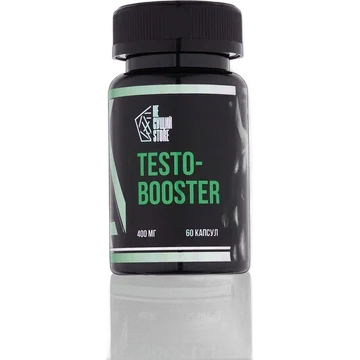
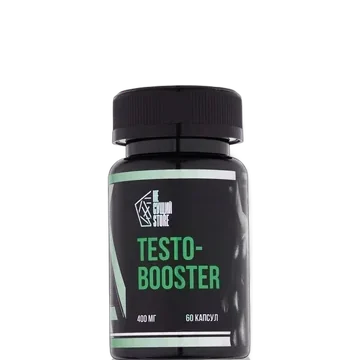
NS Store: у фото бадов обрезано отражение под банками
Claude-Session: https://claude.ai/code/session_011AfLC3NSosYLNDMRR5Vo6k

Changed region(s): [[0.275, 0.0, 0.7028, 1.0]]

diff --git a/js/hub.js b/js/hub.js
@@ -426,7 +426,7 @@ export class Hub {
     shelf(photos) {
         const box = document.createElement("div");
         box.className = "shelf";
-        box.innerHTML = photos.map(([f, name]) => `<img src="img/shop/bady/${f}.webp" alt="${name}" loading="lazy" draggable="false">`).join("") + '<span class="shelf-name"></span>';
+        box.innerHTML = photos.map(([f, name]) => `<img src="img/shop/bady/${f}.webp?v=2" alt="${name}" loading="lazy" draggable="false">`).join("") + '<span class="shelf-name"></span>';
         box.dataset.i = "0";
         box.onclick = () => this.turnShelf(box, 1);
         this.turnShelf(box, 0);
